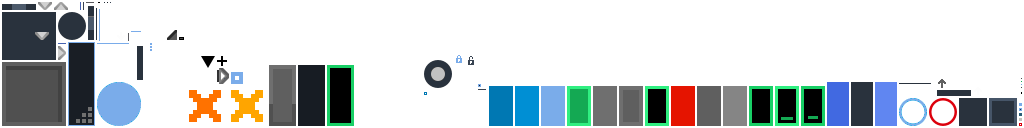
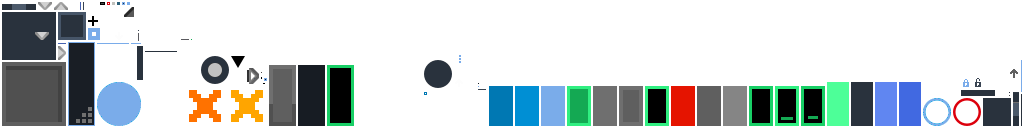
Shifted UI

diff --git a/core/src/io/anuke/lsystem/UI.java b/core/src/io/anuke/lsystem/UI.java
@@ -66,7 +66,7 @@ public class UI extends SceneModule{
 		}}.end();;
 		
 		new table(){{
-			atop();
+			abottom();
 			aright();
 			new table(){{
 				get().background("button");
@@ -103,7 +103,7 @@ public class UI extends SceneModule{
 		
 		new table(){{
 			abottom();
-			aright();
+			aleft();
 			new table(){{
 				get().pad(20);
 				get().background("button");
